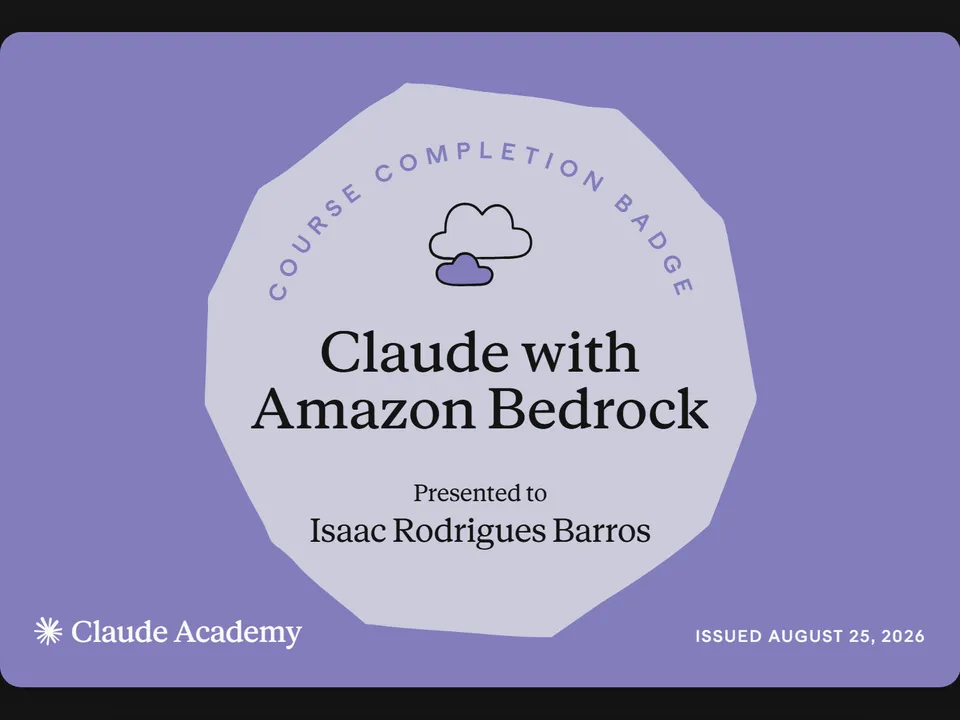
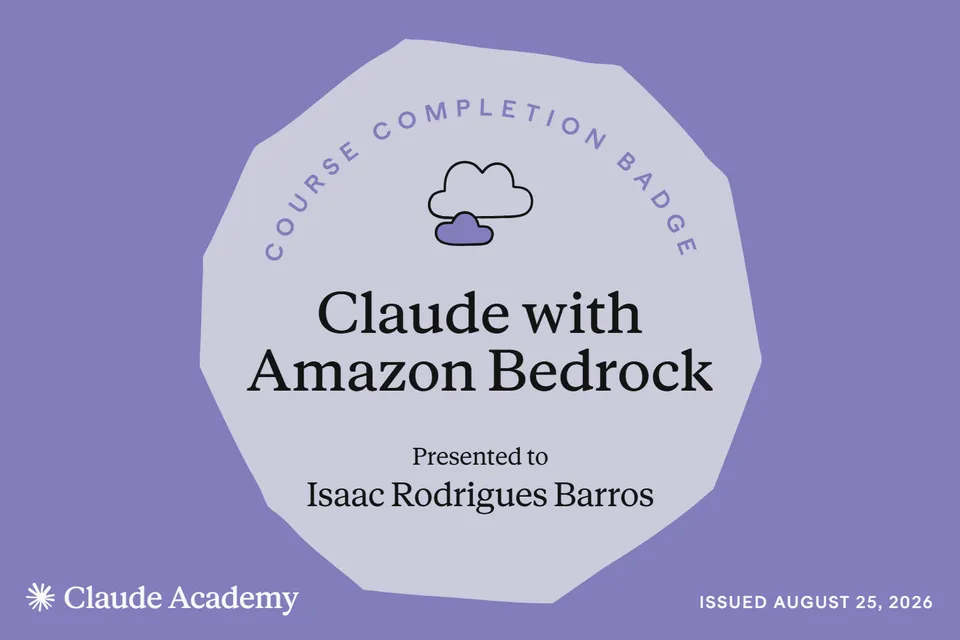
Group certificates by issuer
Each issuer (Google · Coursera, Anthropic · Claude Academy, Udemy) gets its
own heading and grid, so certificates from different issuers never share a
row. The issuer moves from every card into the heading, and the note about
opening the verification page is gone. The Claude Academy badges are
re-captured and cropped inside the card at 3:2, without the dark border.

diff --git a/src/data/certificates.ts b/src/data/certificates.ts
@@ -5,89 +5,113 @@ export type Certificate = {
   name: string
   /** Language of the official title, for assistive tech. */
   lang: 'en' | 'pt-BR'
-  issuer: 'Google' | 'Anthropic' | 'Udemy'
   /** Issue date as printed on the verification page (YYYY-MM-DD). */
   issued: string
   /** Public verification page — the proof behind each entry. */
   verifyUrl: string
 }
 
+export type CertificateGroup = {
+  /** Issuer and platform, shown above the group's row. */
+  label: string
+  /** Every thumbnail in a group shares one size, so the row lines up. */
+  thumbnail: { width: number; height: number }
+  /** Newest first. */
+  certificates: Certificate[]
+}
+
 /**
- * Newest first. Thumbnails are the certificates themselves (the Claude
- * Academy badges are captured from their verification pages), cropped to
- * 4:3 and exported at 960×720 as JPEG + WebP.
+ * One row per issuer, so certificates from different issuers never sit side
+ * by side. Thumbnails are the certificates themselves, 960px wide as JPEG +
+ * WebP: Coursera and Udemy cropped to 4:3, and the Claude Academy badges
+ * captured from their verification pages and cropped inside the card to 3:2.
  */
-export const certificates: Certificate[] = [
+export const certificateGroups: CertificateGroup[] = [
   {
-    slug: 'google-linux-and-sql',
-    name: 'Tools of the Trade: Linux and SQL',
-    lang: 'en',
-    issuer: 'Google',
-    issued: '2026-09-09',
-    verifyUrl:
-      'https://www.coursera.org/account/accomplishments/verify/BDM6QII7T7ZT',
+    label: 'Google · Coursera',
+    thumbnail: { width: 960, height: 720 },
+    certificates: [
+      {
+        slug: 'google-linux-and-sql',
+        name: 'Tools of the Trade: Linux and SQL',
+        lang: 'en',
+        issued: '2026-09-09',
+        verifyUrl:
+          'https://www.coursera.org/account/accomplishments/verify/BDM6QII7T7ZT',
+      },
+      {
+        slug: 'google-networks-and-network-security',
+        name: 'Connect and Protect: Networks and Network Security',
+        lang: 'en',
+        issued: '2026-09-06',
+        verifyUrl:
+          'https://www.coursera.org/account/accomplishments/verify/LVVYFPCE0OQL',
+      },
+      {
+        slug: 'google-manage-security-risks',
+        name: 'Play It Safe: Manage Security Risks',
+        lang: 'en',
+        issued: '2026-08-29',
+        verifyUrl:
+          'https://www.coursera.org/account/accomplishments/verify/RJ69NOHTV926',
+      },
+      {
+        slug: 'google-foundations-of-cybersecurity',
+        name: 'Foundations of Cybersecurity',
+        lang: 'en',
+        issued: '2026-08-27',
+        verifyUrl:
+          'https://www.coursera.org/account/accomplishments/verify/LTLWBG6ION9N',
+      },
+    ],
   },
   {
-    slug: 'google-networks-and-network-security',
-    name: 'Connect and Protect: Networks and Network Security',
-    lang: 'en',
-    issuer: 'Google',
-    issued: '2026-09-06',
-    verifyUrl:
-      'https://www.coursera.org/account/accomplishments/verify/LVVYFPCE0OQL',
+    label: 'Anthropic · Claude Academy',
+    thumbnail: { width: 960, height: 640 },
+    certificates: [
+      {
+        slug: 'anthropic-claude-vertex-ai',
+        name: "Claude with Google Cloud's Vertex AI",
+        lang: 'en',
+        issued: '2026-09-02',
+        verifyUrl:
+          'https://academy.claude.com/verify/4a532fbe6844cb8c1b87be2a988d1fe1',
+      },
+      {
+        slug: 'anthropic-claude-amazon-bedrock',
+        name: 'Claude with Amazon Bedrock',
+        lang: 'en',
+        issued: '2026-08-25',
+        verifyUrl:
+          'https://academy.claude.com/verify/ee7535c035d529cab753e49b6c751dc8',
+      },
+      {
+        slug: 'anthropic-claude-api',
+        name: 'Building with the Claude API',
+        lang: 'en',
+        issued: '2026-08-25',
+        verifyUrl:
+          'https://academy.claude.com/verify/26984dbc08c3d79418a8b45adc87b1dd',
+      },
+    ],
   },
   {
-    slug: 'anthropic-claude-vertex-ai',
-    name: "Claude with Google Cloud's Vertex AI",
-    lang: 'en',
-    issuer: 'Anthropic',
-    issued: '2026-09-02',
-    verifyUrl:
-      'https://academy.claude.com/verify/4a532fbe6844cb8c1b87be2a988d1fe1',
-  },
-  {
-    slug: 'google-manage-security-risks',
-    name: 'Play It Safe: Manage Security Risks',
-    lang: 'en',
-    issuer: 'Google',
-    issued: '2026-08-29',
-    verifyUrl:
-      'https://www.coursera.org/account/accomplishments/verify/RJ69NOHTV926',
-  },
-  {
-    slug: 'google-foundations-of-cybersecurity',
-    name: 'Foundations of Cybersecurity',
-    lang: 'en',
-    issuer: 'Google',
-    issued: '2026-08-27',
-    verifyUrl:
-      'https://www.coursera.org/account/accomplishments/verify/LTLWBG6ION9N',
-  },
-  {
-    slug: 'anthropic-claude-amazon-bedrock',
-    name: 'Claude with Amazon Bedrock',
-    lang: 'en',
-    issuer: 'Anthropic',
-    issued: '2026-08-25',
-    verifyUrl:
-      'https://academy.claude.com/verify/ee7535c035d529cab753e49b6c751dc8',
-  },
-  {
-    slug: 'anthropic-claude-api',
-    name: 'Building with the Claude API',
-    lang: 'en',
-    issuer: 'Anthropic',
-    issued: '2026-08-25',
-    verifyUrl:
-      'https://academy.claude.com/verify/26984dbc08c3d79418a8b45adc87b1dd',
-  },
-  {
-    slug: 'udemy-algoritmos-logica-programacao',
-    name: 'Algoritmos e Lógica de Programação - O Curso COMPLETO',
-    lang: 'pt-BR',
-    issuer: 'Udemy',
-    issued: '2026-08-24',
-    verifyUrl:
-      'https://www.udemy.com/certificate/UC-733fee17-7de9-4cfe-830f-ceb0865649ee/',
+    label: 'Udemy',
+    thumbnail: { width: 960, height: 720 },
+    certificates: [
+      {
+        slug: 'udemy-algoritmos-logica-programacao',
+        name: 'Algoritmos e Lógica de Programação - O Curso COMPLETO',
+        lang: 'pt-BR',
+        issued: '2026-08-24',
+        verifyUrl:
+          'https://www.udemy.com/certificate/UC-733fee17-7de9-4cfe-830f-ceb0865649ee/',
+      },
+    ],
   },
 ]
+
+export const certificateCount = certificateGroups.reduce(
+  (total, group) => total + group.certificates.length,
+  0
+)
